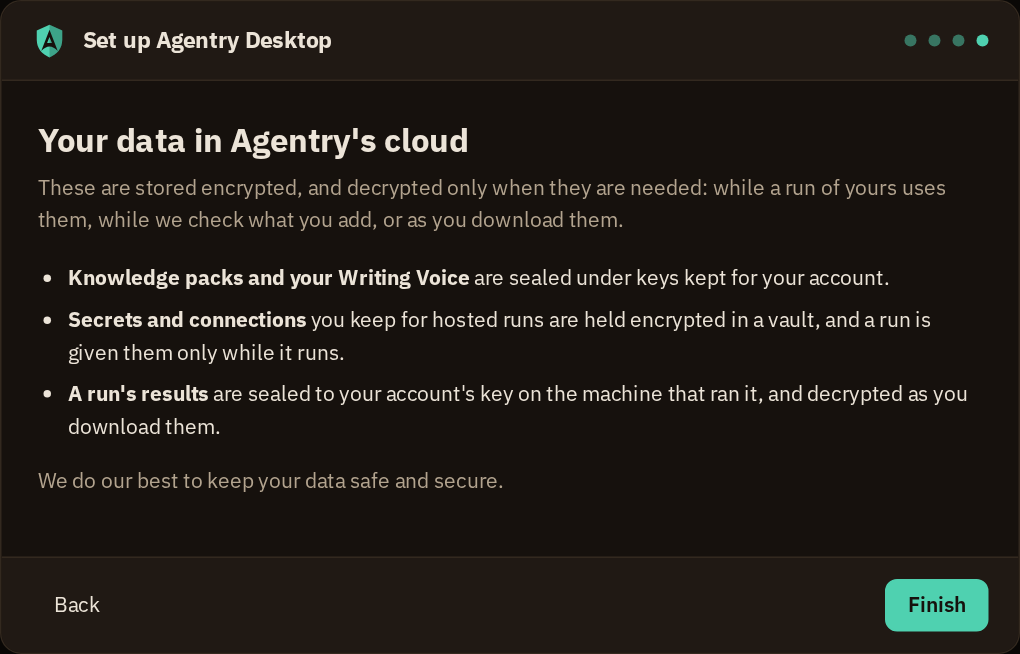
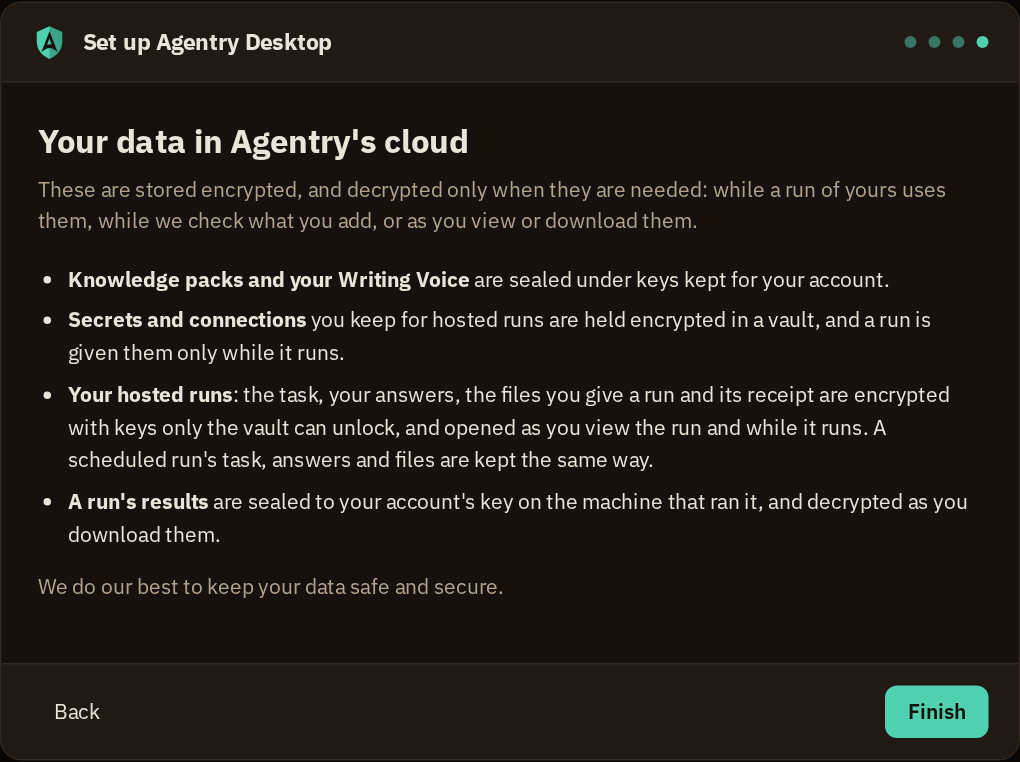
feat(wizard): the Cloud page lists a hosted run's task, answers, files and receipt as encrypted
The first-run wizard's Cloud page, "Your data in Agentry's cloud", lists
what is stored encrypted (D-081). agentry-enterprise#554 (DEV-245) now
seals a hosted run's own data: the task, the intake answers, the uploaded
files and the receipt, and a schedule's task, answers and files, each under
a data key wrapped by the vault's hosted-runs Transit key. The list gains
that item. The subtitle adds "view" to when the data is decrypted, because
the owner's own read of a run opens its text. No claim goes past the
mechanism: nothing says that only the person can read it.

The harness's wizard-cloud state now expects the new item, and its two
screenshots are re-shot.

Closes #848

diff --git a/frontend/src/pages/Wizard.tsx b/frontend/src/pages/Wizard.tsx
@@ -614,12 +614,13 @@ function CloudStep({ onBack, onFinish }: { onBack: () => void; onFinish: () => v
         <h1>Your data in Agentry&apos;s cloud</h1>
         <p className="page-sub">
           These are stored encrypted, and decrypted only when they are needed: while a run of yours uses them,
-          while we check what you add, or as you download them.
+          while we check what you add, or as you view or download them.
         </p>
         <ErrorBox error={error} />
         <ul className="wizard-cloud-list">
           <li><strong>Knowledge packs and your Writing Voice</strong> are sealed under keys kept for your account.</li>
           <li><strong>Secrets and connections</strong> you keep for hosted runs are held encrypted in a vault, and a run is given them only while it runs.</li>
+          <li><strong>Your hosted runs</strong>: the task, your answers, the files you give a run and its receipt are encrypted with keys only the vault can unlock, and opened as you view the run and while it runs. A scheduled run&apos;s task, answers and files are kept the same way.</li>
           <li><strong>A run&apos;s results</strong> are sealed to your account&apos;s key on the machine that ran it, and decrypted as you download them.</li>
         </ul>
         <p className="page-sub">
